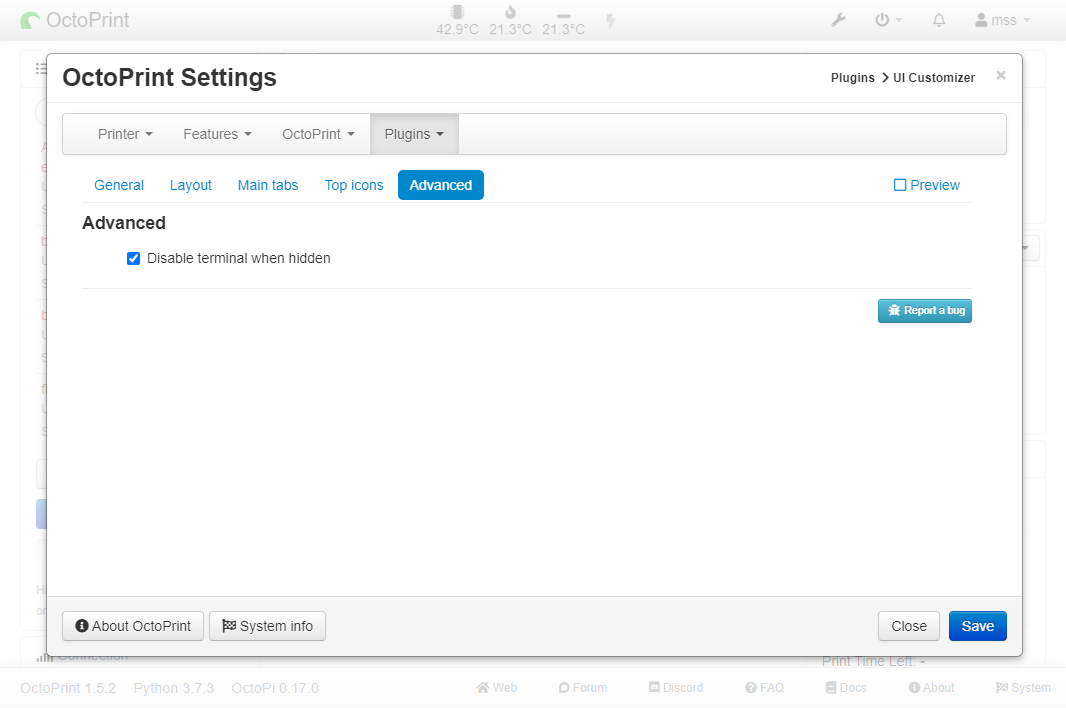
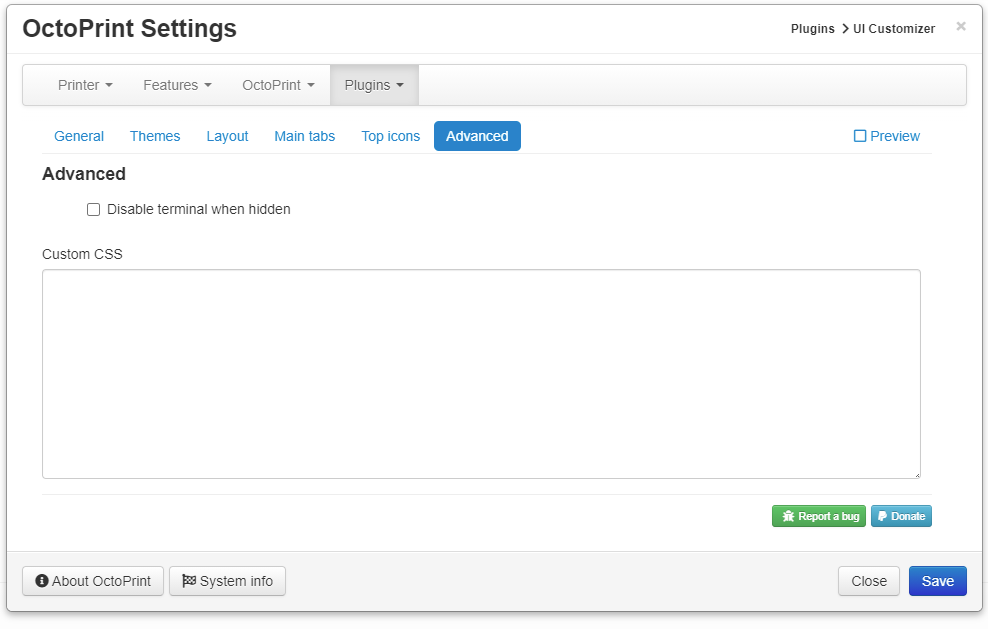
Updated readme

diff --git a/README.md b/README.md
@@ -2,7 +2,7 @@
 ![](extras/responsive.png)
 A [OctoPrint](https://github.com/foosel/OctoPrint) plugin that allows you to customize the look and feel of the user interface.
 It also features a lot of other fixes and improvements:
-* Themes/skins - choose between 6 themes and more are coming soon
+* Themes/skins - choose between 6+ themes
 * Customize tabs: Change icon, labels, order, show/hide
 * Change width of the columns
 * Sort the order to icons in the menu bar (top icons)
@@ -18,7 +18,7 @@ It also features a lot of other fixes and improvements:
 * Extra Gcode viewer "widget"
 * [Compact Navbar temp](https://plugins.octoprint.org/plugins/navbartemp/) icons
 * Hide widgets
-* Hide main camera
+* Hide main camera on Control tab
 * Center top bar icons
 * Realtime preview of changes
 
@@ -64,7 +64,8 @@ The configuration is split into 6 tabs - all have an preview option in the top r
 * Compress temp. controls - compress/minimize the temperature controls in the temperature main tab
 
 ### Themes
-Select a theme - notice you can enable preview and see the theme in a realtime preview
+Select a theme - notice you can enable preview and see the theme in a realtime preview.
+When clicking this tab for the first time you will need to confirm that it's okay to download the different themes from the remote themes site (https://lazemss.github.io/OctoPrint-UICustomizerThemes/) this is done in so we can update themes without updating the plugin.
 ![](extras/s6.png)<br/><br/>
 
 
@@ -74,8 +75,8 @@ The layout of the screen can be made into 1,2 or 3 columns and the size of the c
 If you want a two or one column layout then just drag the "widgets" all the widgets into the left hand side columns.
 Each widget can be moved by draging. The widgets can also be hidden by clicking the eye on the right hand side of the widget.
 Notice there is 2 extras widgets include with UI Customizer:
-- Webcam widget which allows you to have a webcam outside the main tabs
-- Gcode widget which allows you to have a gcode viewer outside the main tabs
+- Webcam widget which allows you to have a webcam outside the main Control tab
+- Gcode widget which allows you to have a gcode viewer outside the main Gcode viewer tab
 
 ### Main tabs
 ![](extras/s3.png)<br/><br/>
@@ -98,6 +99,7 @@ This allows you to change the look & feel of the top icons in top menu
 
 ![](extras/s5.png)<br/><br/>
 * Disable terminal when hidden - Disables the terminal update when the terminal tab is in the background - gives a small perfomance boost.
+* Custom CSS - Enter any custom CSS styling you want to have applied
 
 ## Donation/support
 If you like my work feel free to support me using paypal: https://www.paypal.com/donate/?business=2STH3SD3KXGNQ&item_name=UI+Customizer
